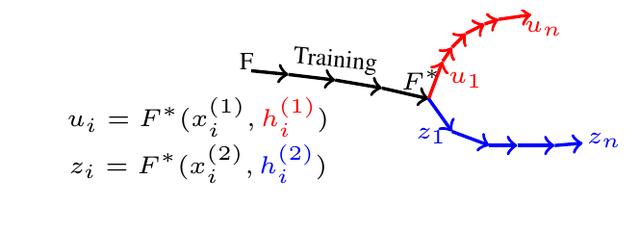
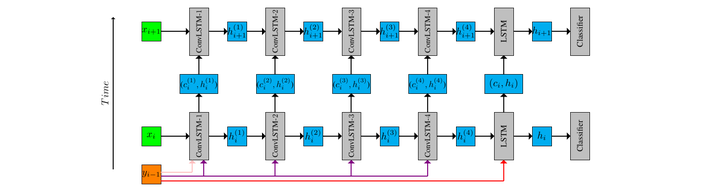
Enlarge thumbnails & remove whitespace; use architecture figure for memory paper

Changed region(s): [[0.0938, 0.0312, 0.9688, 0.9688]]

diff --git a/index.html b/index.html
@@ -161,13 +161,16 @@
     /* thumbnail-left layout for publications */
     #publist > li { display: flex; gap: 1.15em; align-items: flex-start; }
     .pub-thumb {
-      flex: 0 0 152px;
-      width: 152px; height: 114px;
+      flex: 0 0 212px;
+      width: 212px;
+      height: auto;
+      max-height: 150px;
+      align-self: center;
       object-fit: contain;
       background: #fff;
       border: 1px solid var(--line);
       border-radius: 10px;
-      padding: 6px;
+      padding: 5px;
     }
     .pub-body { flex: 1 1 auto; min-width: 0; }
     #thesis li > b:first-of-type, #publist .pub-body > b:first-of-type {
@@ -261,7 +264,7 @@
       .nav-links { width: 100%; justify-content: center; }
       main { padding: 2.4em 1.1em 3em; }
       #publist > li { flex-direction: column; }
-      .pub-thumb { flex: 0 0 auto; width: 100%; height: 150px; }
+      .pub-thumb { flex: 0 0 auto; width: 100%; height: auto; max-height: 230px; align-self: stretch; }
     }
   </style>
 </head>
